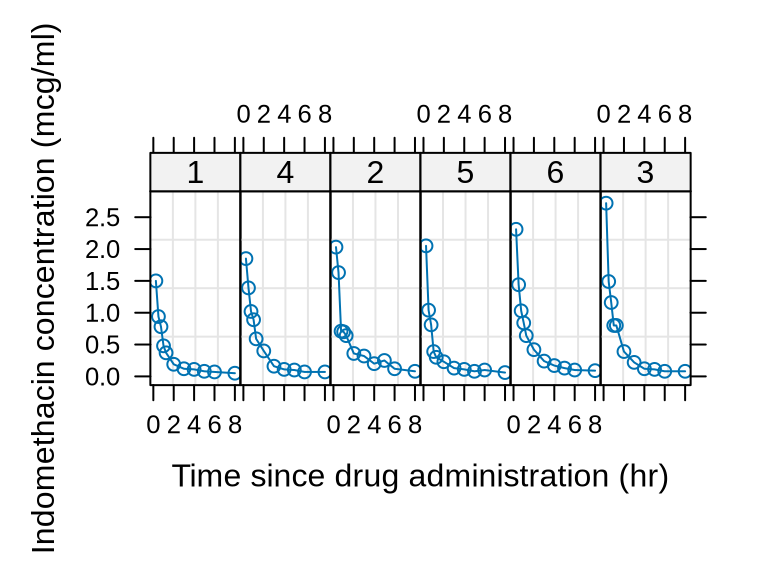
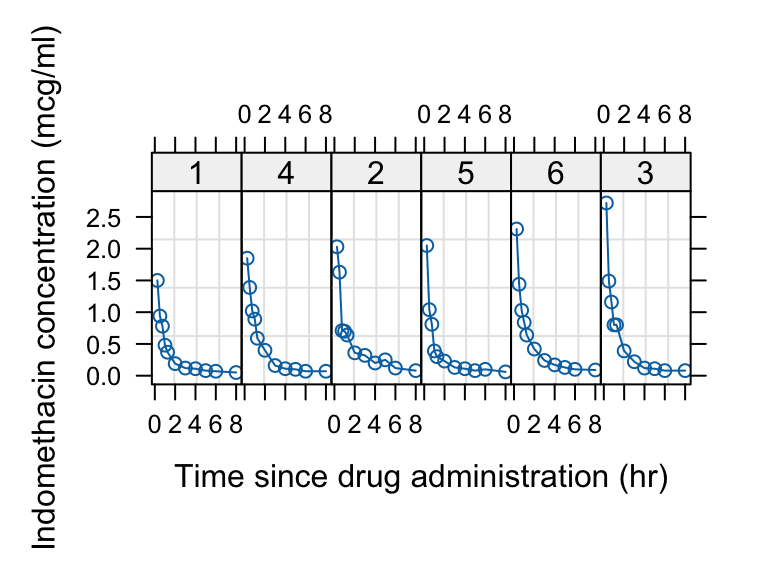
clean up

diff --git a/integrated_bioanalytics/index.knit.md b/integrated_bioanalytics/index.knit.md
@@ -1,0 +1,163 @@
+--- 
+title: "Integrated Bioanalytics"
+author: "Lucas Busta and members of the Busta lab"
+date: "2026-07-01"
+site: bookdown::bookdown_site
+documentclass: krantz
+bibliography: [book.bib, packages.bib]
+# url: your book url like https://bookdown.org/yihui/bookdown
+# cover-image: path to the social sharing image like images/cover.jpg
+description: |
+  Integrated Bioanalytics is a book describing how to perform chemical, phylogenetic, genomic, and language model-based analyses.
+biblio-style: apalike
+csl: chicago-fullnote-bibliography.csl
+output:
+  bookdown::bs4_book:
+    theme:
+      primary: "#3860b6" #links  
+      base_font: 
+        google: 
+          family: Lato
+      heading_font:
+        google:
+          family: Montserrat
+          wght: 600
+      code_font:
+        google: 
+          family: Roboto Mono
+      bg: "#fefefe" #backgrounds
+      fg: "#000000" #fonts
+    repo: 
+      base: https://github.com/thebustalab/thebustalab.github.io/tree/master/integrated_bioanalytics
+      branch: main
+    includes:
+      in_header: style/ga.html
+    template: style/bs4_book.html
+    css: style/style.css
+---
+
+
+
+# WELCOME {-}
+
+<!-- start preface-->
+<img src="https://thebustalab.github.io/integrated_bioanalytics/images/cover1.png" width="100%" style="display: block; margin: auto;" />
+
+Integrated Bioanalytics documents methods for analyzing chemical and sequence data in R as well as some basics of scientific writing. It is maintained by Lucas Busta and members of the Busta lab. To run the analyses described in this book you will need to run a source script that will set up your R environment with a variety of packages, custom functions, and datasets. If you don't have R, see "installation" under "Data Analysis In R" in the table of contents. Run the source script by pasting and executing the following in your R command line (RStudio recommended). If you are in the Busta Lab (or want access to full features), define an object `bustalab = TRUE` before running the source command. If you have trouble running the source script, please reach out to Lucas Busta at: [email redacted]. The source script: 
+
+
+``` r
+source("https://thebustalab.github.io/phylochemistry/phylochemistry.R")
+```
+
+________________________________________________________________________________________________
+________________________________________________________________________________________________
+________________________________________________________________________________________________
+
+# (PART) GETTING STARTED 
+
+
+# overview {-}
+
+<img src="https://thebustalab.github.io/integrated_bioanalytics/images/chemometrics.jpeg" alt="" width="100%" style="display: block; margin: auto;" />
+
+In bioanalytical science, we separate, identify, and quantify matter - be it DNA, RNA, proteins, small molecules, or even atoms. To connect our data with the world around us and answer scientific questions, multiple chemical entities must be separated, quantified, and identified. As our ability to collect analytical data expands, so must our ability to effectively analyze that data - whether its 10 data points or 10,000.
+
+This book first covers data analysis in R. We will first look at tools for hypothesis generation, including: (i) encoding variables in visual representations of data and (ii) summarizing and providing overviews of large data set. We will then turn to evaluating hypothesese with data by looking at statistical tests and models. Finally, we will look at how to communicate our results in a clear and effective way. These techniques will also allow us to answer common quesions we may have about our data: "Which of my samples are most closely related?", "Which analytes are driving differences among my samples?", "Do my samples fall into definable clusters?", "Are any of my variables related?", and "Are any of these distributions different?".
+
+Let's get started!
+
+
+
+
+
+
+
+
+
+
+
+
+
+
+
+
+
+
+
+
+
+
+
+
+
+
+
+
+
+
+
+
+
+
+
+
+
+
+
+
+
+
+
+
+
+
+
+
+
+
+
+
+
+
+
+
+
+
+
+
+
+
+
+
+
+
+
+
+
+
+
+
+
+
+
+
+
+
+
+
+
+
+
+
+
+
+
+
+
+
+
+
+
+
+